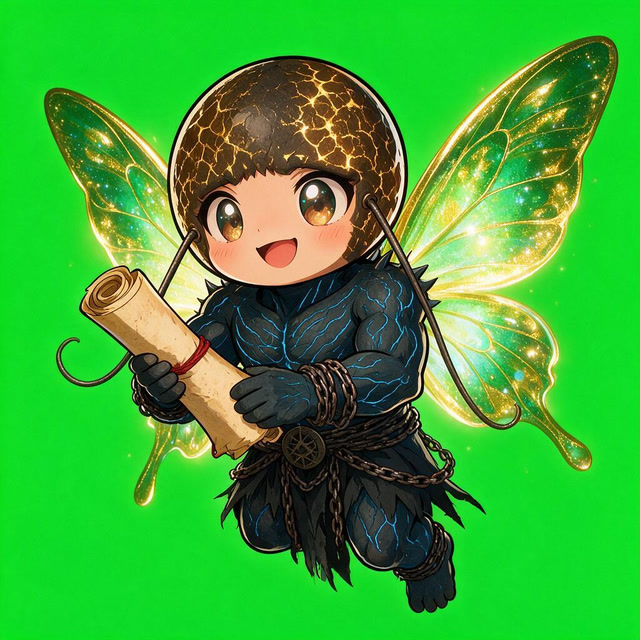
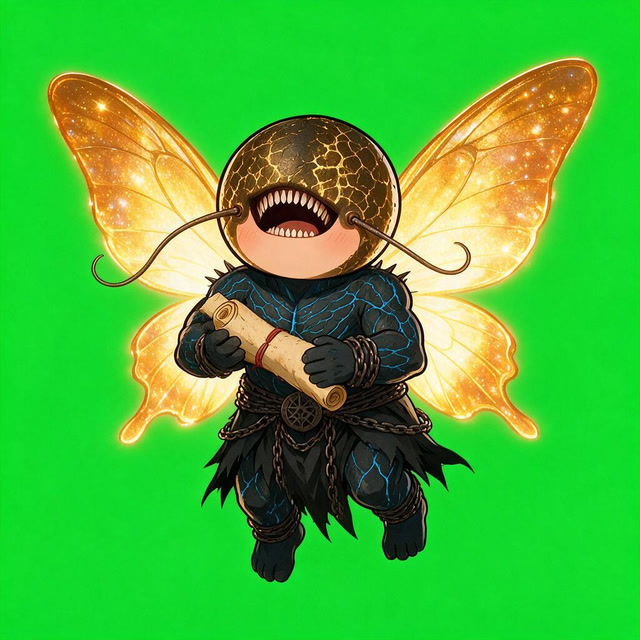
MV art: new pictures [skip ci]

diff --git a/design/mv-art/out/last-run.md b/design/mv-art/out/last-run.md
@@ -1,10 +1,5 @@
-# UI art — 2026-11-24T07:48:25.679Z
+# UI art — 2026-11-24T07:57:25.196Z
 
-Seedream 5.0 Pro / 6枚 / 約43円
+Seedream 5.0 Pro / 1枚 / 約7円
 
 - ✅ chibi3-brother
-- ✅ chibi3-kimorin
-- ✅ chibi3-mikie
-- ✅ chibi3-monban
-- ✅ chibi3-sister
-- ✅ chibi3-user
